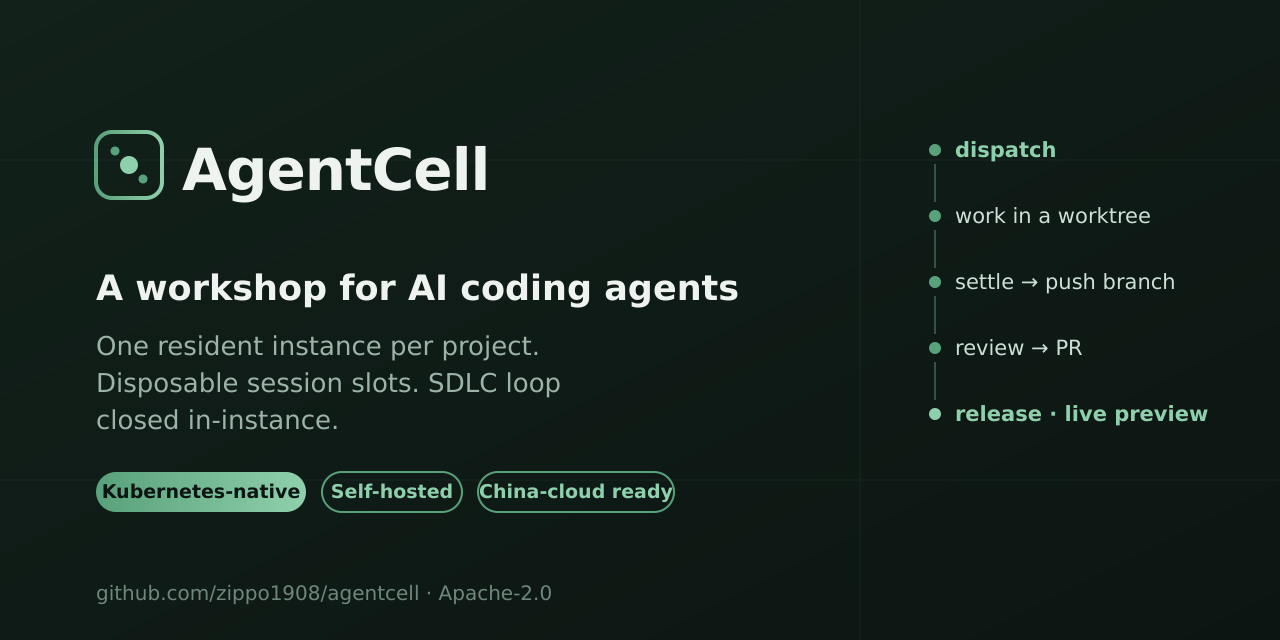
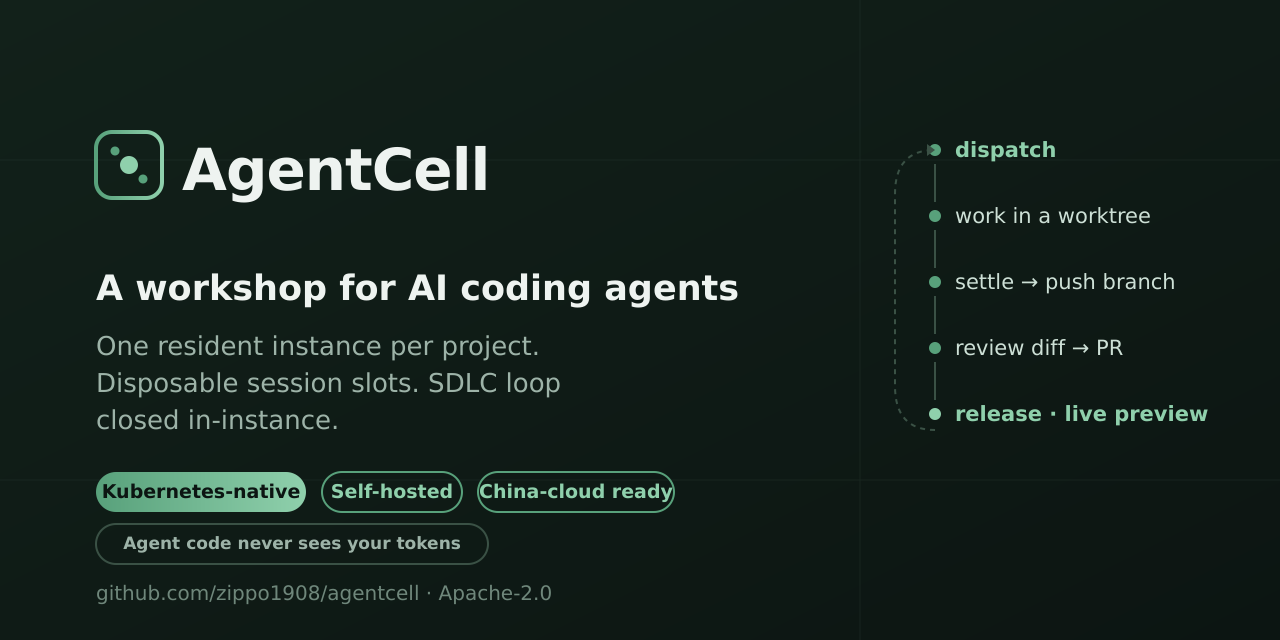
docs: bring READMEs and the social preview up to date
The READMEs still described the state before the git-broker, the review
queue, the React frontend and the preview-origin isolation landed.

- implemented-vs-designed: mark the Helm chart shipped, add the
  untrusted-content origin isolation row, note the UI is an embedded React
  SPA; move agent-sandbox/multi-node to the designed rows.
- Why: the credentials bullet now covers the preview boundary — repo code
  runs on its own origin per Cell and zone and the proxy strips platform
  credentials, while the app keeps same-origin powers over itself.
- Quick start: --set preview.domain / preview.ingress, with a plain
  statement that any deployment whose repositories aren't fully trusted
  must set it (wildcard DNS + certificate required).
- Components: celld now has two HTTP surfaces (console :8080, untrusted
  content :8081) and the SPA lives in web/, embedded with go:embed.
- Social preview: the SDLC loop is drawn closed (release feeds the next
  dispatch), "review diff → PR" reflects what shipped, and a fourth chip
  states the isolation property — "Agent code never sees your tokens".

Changed region(s): [[0.0938, 0.8125, 0.375, 0.9062], [0.8125, 0.5312, 0.875, 0.5625]]

diff --git a/README.md b/README.md
@@ -31,7 +31,10 @@ product preview to steer against; and an SDLC loop — dispatch → work → set
 - **Credentials stay out of reach.** Model keys are injected per session. With
   the git-broker (default), **no workload pod holds the forge token** — pods
   authenticate with an audience-scoped ServiceAccount token; only the settle
-  role may push, create-only, to its own branch.
+  role may push, create-only, to its own branch. The preview a project serves
+  is repo- and agent-authored, so it runs on **its own origin per Cell and
+  zone** and the proxy strips every platform credential before the request
+  reaches it — while the app keeps full same-origin powers over itself.
 - **China-cloud friendly.** Providers are data, not code: Alibaba Bailian,
   Tencent Hunyuan, DeepSeek, Moonshot, Zhipu work through their OpenAI-/
   Anthropic-compatible endpoints with no proxy.
@@ -59,15 +62,17 @@ Full diagrams (control plane, lifecycle, git-broker): **[docs/ARCHITECTURE.md](d
 |---|---|
 | Cell operator (namespace / PVC / anchor / preview) · Session lifecycle (slot gate → settle Job → reclaim) | ✅ tested |
 | Settle data-safety (push-confirmed-or-retry, worktree kept) | ✅ real-git tested |
-| Resident preview + calibration UI · two-zone release (`/app`, branch/tag/SHA, rollback) | ✅ |
+| Resident preview + calibration UI (React SPA embedded in celld) · two-zone release (branch/tag/SHA, rollback) | ✅ |
+| **Untrusted content isolated by origin**: each Cell *zone* on its own host, single-use tickets, no platform credential ever reaches repo code | ✅ tested ([ADR-0007](docs/adr/0007-preview-origin-separation.md)) |
 | Provider registry (Aliyun Bailian / Tencent Hunyuan / DeepSeek / …) | ✅ tested |
 | HTTP auth (bearer + login cookie; refuses to start open) · per-Cell NetworkPolicy · PSS restricted · non-root pods | ✅ |
 | Race-free slot leases (+ crash recovery) | ✅ tested |
 | **git-broker**: forge token in no workload pod; per-role SAs; audience-bound tokens; repo↔cred binding; push verified by pod uid+owner; create-only `session/<id>` | ✅ tested ([ADR-0005](docs/adr/0005-git-broker.md)) |
 | Real-cluster (k3s) e2e — all 8 steps incl. preview & production HTTP 200 | ✅ ([Run 3](docs/E2E_RESULTS.md)) |
 | Review queue · diff · approve→auto-PR · merge tracking (forge API via broker, celld holds no credential) | ✅ tested ([ADR-0006](docs/adr/0006-review-queue-and-pr.md)) |
+| Helm chart + GHCR images + cloud presets (k3s / ACK / TKE) | ✅ `helm lint`-verified |
 | Terminal attach (tmux over WebSocket) | ⬜ designed (M5) |
-| agent-sandbox substrate · Helm chart · multi-node RWX | ⬜ designed |
+| agent-sandbox substrate · multi-node RWX | ⬜ designed |
 
 ## Install (one command)
 
@@ -77,8 +82,15 @@ needs nothing built locally:
 ```sh
 helm install agentcell oci://ghcr.io/zippo1908/charts/agentcell \
   --namespace agentcell-system --create-namespace \
-  --set celld.auth.tokens="{$(openssl rand -hex 24)}"
+  --set celld.auth.tokens="{$(openssl rand -hex 24)}" \
+  --set preview.domain=preview.example.com --set preview.ingress.enabled=true
 ```
+
+`preview.domain` gives every Cell zone its own host
+(`<cell>-dev.…`, `<cell>-prod.…`) and needs a wildcard DNS record and
+certificate. **Set it for any deployment whose repositories aren't fully
+trusted** — without it all Cells share one preview origin
+([ADR-0007](docs/adr/0007-preview-origin-separation.md)).
 
 Presets for k3s / Alibaba ACK / Tencent TKE: `-f deploy/presets/<name>.yaml`.
 Then create the git credential + model key and your first Cell (the chart
@@ -121,8 +133,10 @@ Production walkthrough (ingress/TLS, storage, upgrades, troubleshooting):
 
 ## Components
 
-- **`celld`** — operator for the `Cell`/`Session` CRDs + HTTP surface (UI,
-  API, preview/app reverse proxy).
+- **`celld`** — operator for the `Cell`/`Session` CRDs plus two HTTP
+  surfaces: the console (React SPA + API, `:8080`) and, on a **separate
+  origin**, the untrusted-content proxy (`:8081`). The SPA lives in `web/`
+  and is embedded with `go:embed`, so this is still one binary.
 - **`git-broker`** — the only component holding forge credentials; an
   authenticating git proxy.
 - **`cell-runtime`** — static multi-call binary, PID 1 of anchor/session/prod

diff --git a/README.zh-CN.md b/README.zh-CN.md
@@ -24,7 +24,9 @@
   预览——你对着 agent 正在做出来的东西随手校准。
 - **凭据够不到。** 模型 key 按会话注入。开启 git-broker(默认)后**没有任何 workload
   pod 持有 forge 令牌**——pod 用 audience 绑定的 ServiceAccount 令牌认证;只有 settle
-  角色能 push,且只能 create-only 推自己那一个分支。
+  角色能 push,且只能 create-only 推自己那一个分支。项目预览是仓库与 agent 写的代码,
+  因此**按 Cell 与区各自独立 origin** 运行,代理在请求到达它之前剥掉所有平台凭据——
+  而预览应用对自己仍是完整同源,毫无退化。
 - **国内云友好。** 服务商是数据不是代码:阿里百炼、腾讯混元、DeepSeek、Kimi、智谱
   经其 OpenAI/Anthropic 兼容端点开箱即用,免代理。
 
@@ -51,15 +53,17 @@ flowchart TB
 |---|---|
 | Cell 控制器(命名空间/PVC/锚点/预览)· 会话生命周期(槽位闸 → settle Job → 回收) | ✅ 有测试 |
 | settle 数据安全(推送确认否则重试、永不删未送达 worktree) | ✅ 真 git 测试 |
-| 常驻预览 + 校准 UI · 双区发布(`/app`、分支/标签/SHA、回滚) | ✅ |
+| 常驻预览 + 校准 UI(React SPA,内嵌进 celld)· 双区发布(分支/标签/SHA、回滚) | ✅ |
+| **不可信内容按 origin 隔离**:每个 Cell 的每个区独立 host、一次性票据、平台凭据永不到达仓库代码 | ✅ 有测试([ADR-0007](docs/adr/0007-preview-origin-separation.md)) |
 | 服务商注册表(阿里百炼 / 腾讯混元 / DeepSeek / …) | ✅ 有测试 |
 | HTTP 鉴权(Bearer + 登录 cookie,默认拒绝裸启)· 每 Cell NetworkPolicy · PSS restricted · 非 root Pod | ✅ |
 | 无竞态槽位租约(含崩溃恢复) | ✅ 有测试 |
 | **git-broker**:令牌不进任何 workload pod;按角色 SA;audience 绑定令牌;repo↔凭据绑定;push 经 pod uid+owner 校验;`session/<id>` create-only | ✅ 有测试([ADR-0005](docs/adr/0005-git-broker.md)) |
 | 真机 k3s e2e — 全 8 步含预览与正式区 HTTP 200 | ✅([Run 3](docs/E2E_RESULTS.md)) |
 | 批阅队列 · diff · 通过即开 PR · merge 跟踪(forge API 经 broker,celld 不持凭据) | ✅ 有测试([ADR-0006](docs/adr/0006-review-queue-and-pr.md)) |
+| Helm chart + GHCR 镜像 + 云预置(k3s / ACK / TKE) | ✅ 经 `helm lint` 验证 |
 | 终端 attach(tmux over WebSocket) | ⬜ 设计中(M5) |
-| agent-sandbox 底座 · Helm chart · 多节点 RWX | ⬜ 设计中 |
+| agent-sandbox 底座 · 多节点 RWX | ⬜ 设计中 |
 
 ## 一条命令安装
 
@@ -68,8 +72,14 @@ flowchart TB
 ```sh
 helm install agentcell oci://ghcr.io/zippo1908/charts/agentcell \
   --namespace agentcell-system --create-namespace \
-  --set celld.auth.tokens="{$(openssl rand -hex 24)}"
+  --set celld.auth.tokens="{$(openssl rand -hex 24)}" \
+  --set preview.domain=preview.example.com --set preview.ingress.enabled=true
 ```
+
+`preview.domain` 让每个 Cell 的每个区拥有独立 host(`<cell>-dev.…`、
+`<cell>-prod.…`),需要泛域名解析与泛证书。**仓库并非完全可信的部署必须设置**
+——不设则所有 Cell 共用一个预览 origin(见
+[ADR-0007](docs/adr/0007-preview-origin-separation.md))。
 
 k3s / 阿里 ACK / 腾讯 TKE 预置:`-f deploy/presets/<名字>.yaml`。装完按 chart
 输出的提示创建 git 凭据、模型 key 和第一个 Cell。完整说明见
@@ -111,7 +121,9 @@ kubectl -n agentcell-system port-forward svc/celld 8080:80   # http://localhost:
 
 ## 组件
 
-- **`celld`** —— `Cell`/`Session` CRD 的 operator + HTTP 面(UI、API、预览/正式区反代)。
+- **`celld`** —— `Cell`/`Session` CRD 的 operator,外加两个 HTTP 面:控制台
+  (React SPA + API,`:8080`)与**独立 origin** 上的不可信内容代理(`:8081`)。
+  前端在 `web/`,用 `go:embed` 打进二进制——仍是单二进制。
 - **`git-broker`** —— 唯一持有 forge 凭据的组件,一个认证式 git 代理。
 - **`cell-runtime`** —— 静态 multi-call 二进制,anchor/session/prod pod 的 PID 1。
 - **`cellctl`** —— 运维 CLI。
